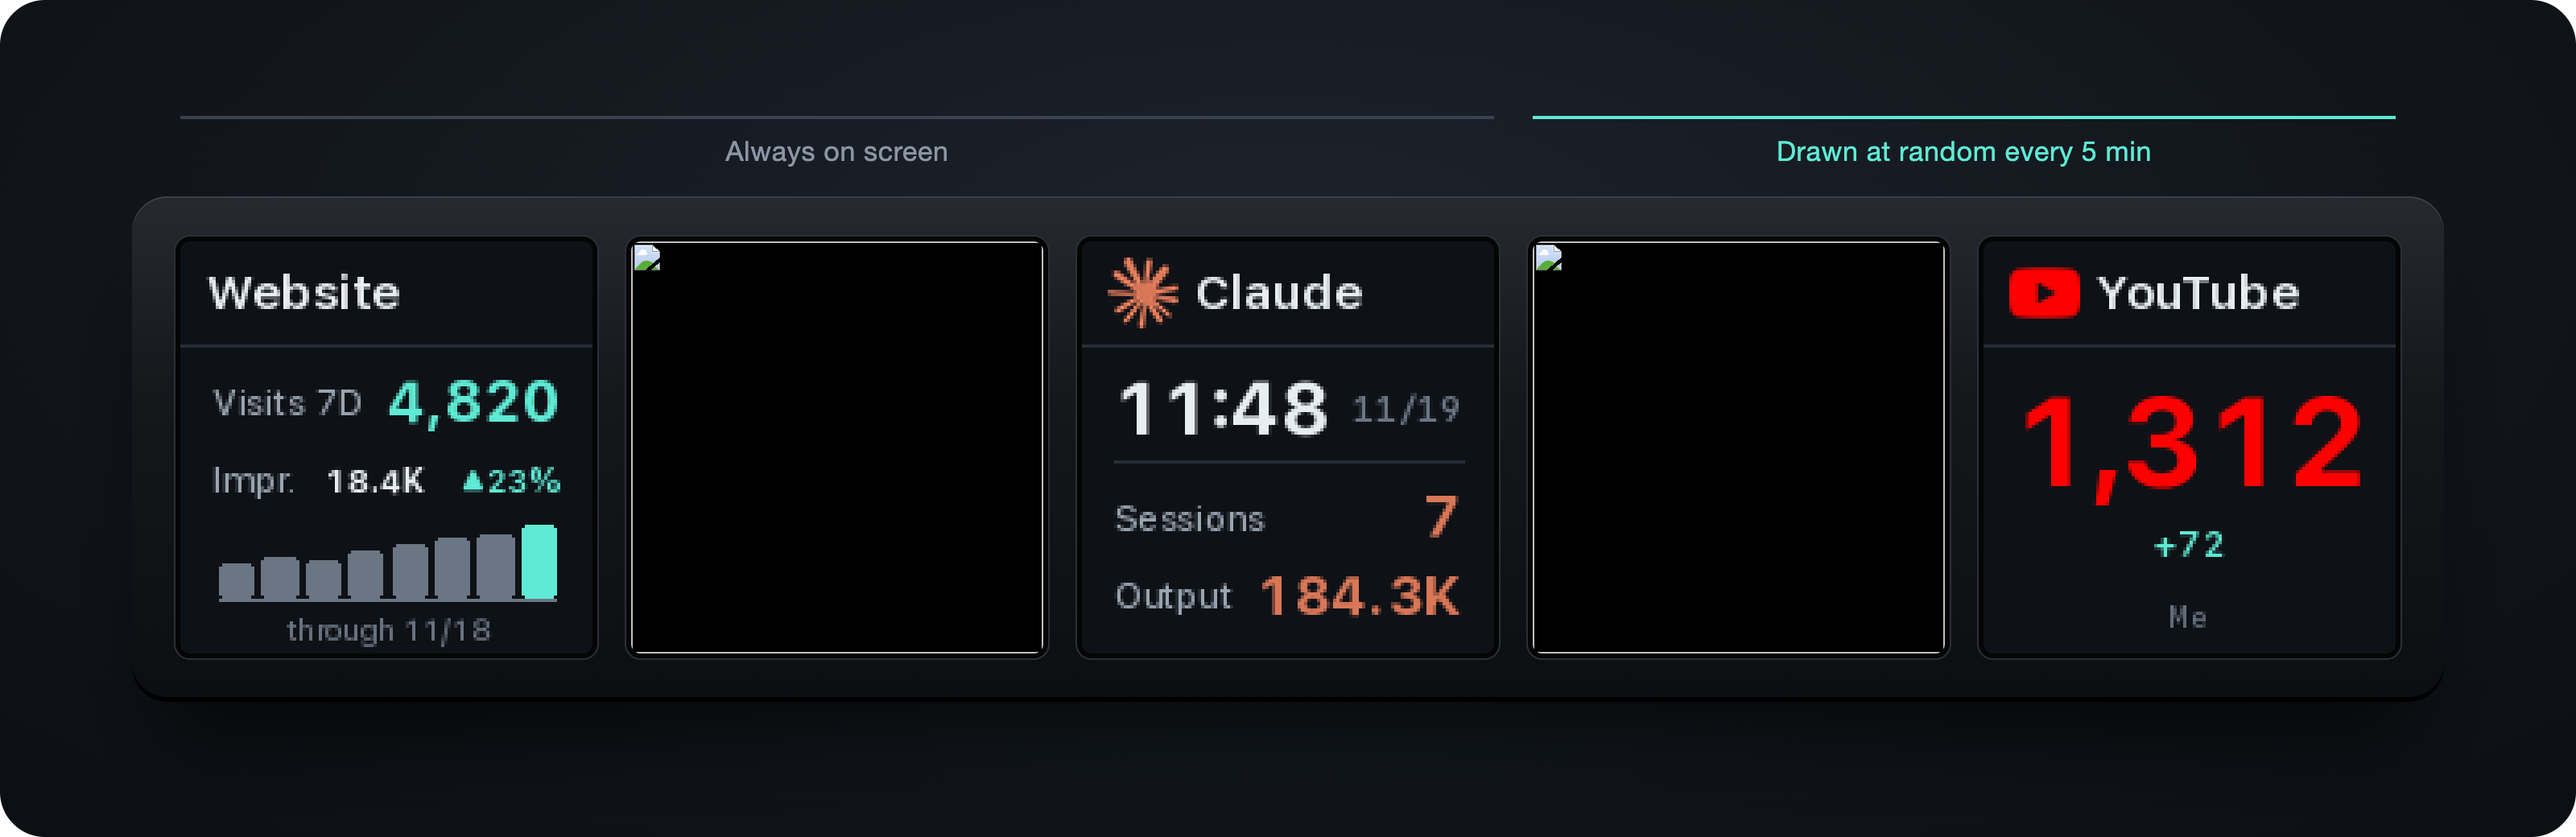
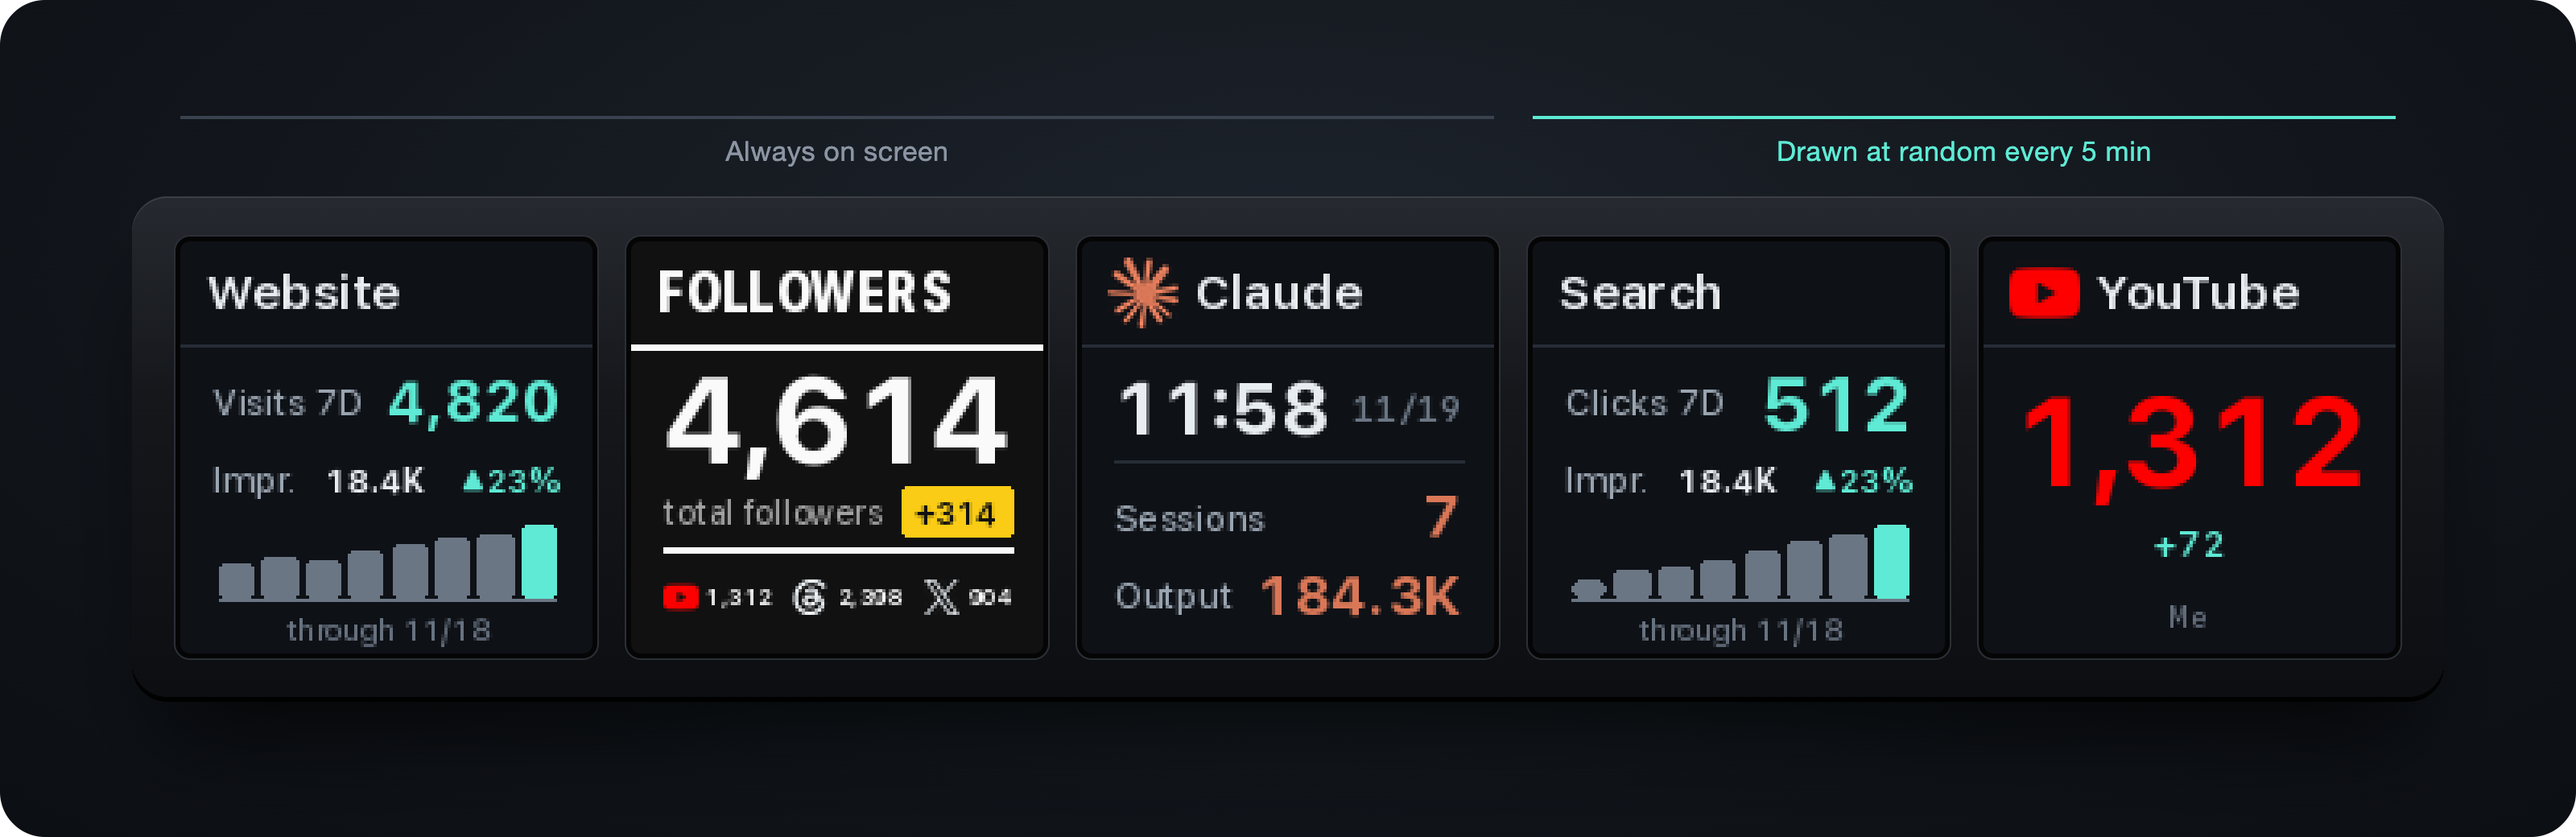
Fix preview image: tiles 2 and 4 were broken
The template only rewrote the first image path per line, and the build
took the screenshot without checking the tiles had loaded. It now waits
for all five and fails if any is missing.

diff --git a/tools/preview.html b/tools/preview.html
@@ -24,7 +24,7 @@ body{font-family:-apple-system,"SF Pro Text","Helvetica Neue",sans-serif;display
 <div class="wrap">
  <div class="brace"><div class="fixed">Always on screen</div><div class="pool">Drawn at random every 5 min</div></div>
  <div class="lamp">
-  <div class="scr"><img src="../out/screen1.png"></div><div class="scr"><img src="screen2.png"></div>
-  <div class="scr"><img src="../out/screen3.png"></div><div class="scr"><img src="screen4.png"></div>
+  <div class="scr"><img src="../out/screen1.png"></div><div class="scr"><img src="../out/screen2.png"></div>
+  <div class="scr"><img src="../out/screen3.png"></div><div class="scr"><img src="../out/screen4.png"></div>
   <div class="scr"><img src="../out/screen5.png"></div></div>
  </div></div></body></html>

diff --git a/tools/build_preview.py b/tools/build_preview.py
@@ -16,7 +16,11 @@ with sync_playwright() as p:
         browser = p.chromium.launch(channel="chrome")
     page = browser.new_page(viewport={"width": 1600, "height": 520}, device_scale_factor=2)
     page.goto((ROOT / "tools" / "preview.html").as_uri())
-    page.wait_for_load_state("load")
+    # Screenshot only once all five tiles have decoded; a missing tile is an error, not a blank screen.
+    page.wait_for_function("[...document.images].every(i => i.complete)")
+    loaded = page.evaluate("[...document.images].filter(i => i.naturalWidth === 128).length")
+    if loaded != 5:
+        raise SystemExit(f"only {loaded}/5 tiles loaded; run `python3 dash.py --demo` first")
     page.locator(".stage").screenshot(path=str(ROOT / "docs" / "preview.png"), omit_background=True)
     browser.close()
 print("wrote docs/preview.png")
